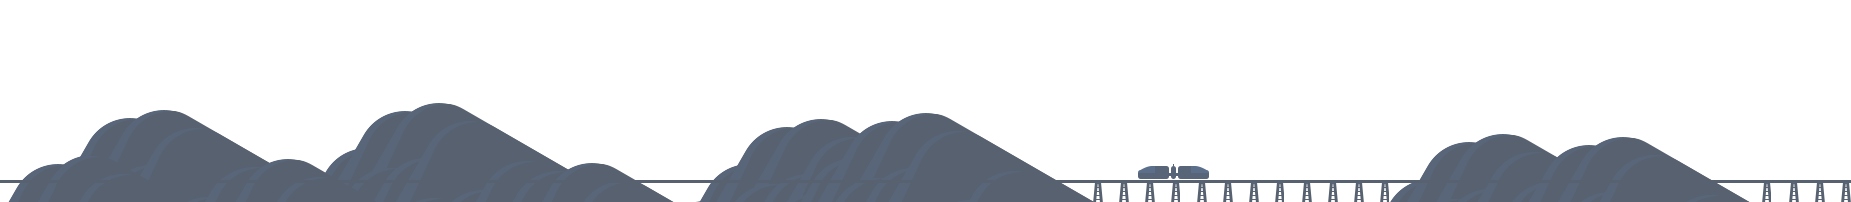
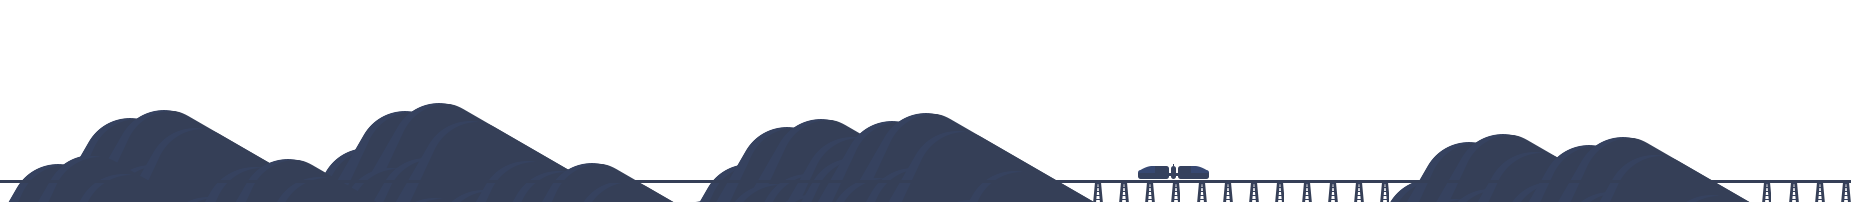
update background; fix game resizing; ARIA

Changed region(s): [[0.0, 0.505, 1.0, 1.0]]

diff --git a/js/global.js b/js/global.js
@@ -158,6 +158,7 @@ window.onload = (w) => {
     // Animate
     let animationID = 0;
     let lastTime = 0;
+
     function animateScene(timeStamp) {
         const deltaTime = timeStamp - lastTime;
         lastTime = timeStamp;
@@ -180,11 +181,15 @@ window.onload = (w) => {
     }
 
     function toggleAnimation(force) {
-        if (!isAnimating) {
-            isAnimating = true;
-            animateScene();
-        } else {
+        if (force === 'pause') {
             isAnimating = false;
+        } else {
+            if (!isAnimating) {
+                isAnimating = true;
+                animateScene();
+            } else {
+                isAnimating = false;
+            }
         }
     }
 
@@ -209,19 +214,21 @@ window.onload = (w) => {
         // isAnimating = 'stopped';
         canvas.width = canvasParent.offsetWidth;
         canvas.height = canvasParent.offsetHeight - groundHt;
+        // console.log(canvas.height);
         cancelAnimationFrame(animationID);
         platformAry = getPlatforms();
         ctx = canvas.getContext('2d');
+        marty.resetBounds(canvas.width, canvas.height);
 
             // redraw
-        // animateScene();
+        animateScene(0);
     }
     window.addEventListener("resize", resizeCanvas);
     
 
 }
 
-// "blocl" interactions
+// "block" interactions
 const maxHits = 6; // for "special" blocks
 function hitBlock(b) {
     // get num of hits on block
@@ -269,6 +276,10 @@ function ee() {
 }
 
 
+
+
+
+// Contact Form
 async function postData(form) {
     let emailContents = new FormData();
     form.querySelectorAll('input, textarea').forEach((i) => {
@@ -294,11 +305,7 @@ async function postData(form) {
 
 }
 
-// window.addEventListener('keydown', e => {
-//     console.log(e.key);
-// });
-  
-let aboutHt = document.getElementById("intro").offsetHeight;
+// let aboutHt = document.getElementById("intro").offsetHeight;
 function checkScroll() {
     let toTop = document.body.scrollTop || document.documentElement.scrollTop;
     if (toTop > 50) {

diff --git a/js/modules/game.js b/js/modules/game.js
@@ -246,6 +246,25 @@ class Player {
     onPlatform() {
         // if (this._y)
     }
+    resetBounds(width, height) {
+        // reset scene parameters
+        this._sceneWidth = width;
+        this._sceneHeight = height;
+
+        // prevent player from moving offscreen horizontally
+        if (this._x > this._sceneWidth - this._width) this._x = width - this._width;
+        if (this._x < 0) this._x = 0;
+
+        // prevent player from falling below ground
+        if (this._y + this._height > this._sceneHeight) {
+            this._y = this._sceneHeight - this._height;
+        }
+        // reset ground
+        this._groundLevel = this._sceneHeight - this._height;
+        this._lowerBound = this._groundLevel;
+
+        
+    }
 }
 
 class Environment {

diff --git a/index.php b/index.php
@@ -29,7 +29,7 @@
 </div>
 <header>
     <nav>
-        <ul>
+        <ul role="presentation">
             <li><a href="#about">About</a></li>
             <li><a href="#work">Work</a></li>
             <li><a href="#contact">Contact</a></li>
@@ -70,13 +70,13 @@
         <p>Full-Stack Developer</p>
     </section>
     <section id="about" data-current-scene="1">
-        <div class="contain">
+        <div class="contain" role="presentation">
             <h2>
-                <span class="brick">A</span>
-                <span class="brick">B</span>
-                <span class="brick special">O</span>
-                <span class="brick">U</span>
-                <span class="brick">T</span>
+                <span class="brick" role="presentation">A</span>
+                <span class="brick" role="presentation">B</span>
+                <span class="brick special" role="presentation">O</span>
+                <span class="brick" role="presentation">U</span>
+                <span class="brick" role="presentation">T</span>
             </h2>
             <?php
             #    $md = file_get_contents('data/about.md');
@@ -86,20 +86,20 @@
             <p class="platform" data-scene="1">When I am not working or watching my kids at their school sport events, I enjoy gaming on my custom-built PC, buidling and designing with LEGO, and practicing real-life and in-game photography. I have been interested in programming since I was a kid, learning other programming languages that appealed to my problem-solving nature while looking for fun and creative ways to put the code the use.</p>
             <p class="platform eegg" data-scene="2">I also enjoy including Easter Eggs in fun projects, but who doesn't?</p>
         </div>
-        <div class="monitor">
+        <div class="monitor" role="presentation">
             <img class="asset" id="cloud" data-type="sprite" src="images/about/cloud_sprite.png" alt="">
             <img class="asset" id="playerSprite" data-type="sprite" src="images/about/LEGO-sprite.png" alt="">
-            <div class="shrub"></div>
-            <div class="shrub"></div>
-            <div class="tile curtain left"></div>
-            <div class="tile curtain right"></div>
-            <div class="tile ground"></div>
+            <div class="shrub" role="presentation"></div>
+            <div class="shrub" role="presentation"></div>
+            <div class="tile curtain left" role="presentation"></div>
+            <div class="tile curtain right" role="presentation"></div>
+            <div class="tile ground" role="presentation"></div>
         </div>
     </section>
     <section id="work" class="alt">
-        <div class="contain">
+        <div class="contain" role="presentation">
             <h2>Work</h2>
-            <div class="projects">
+            <div class="projects" role="presentation">
 
             <?php
                 $proj_data = json_decode(file_get_contents('data/projects.json'));
@@ -111,9 +111,9 @@
                         $projNum = ($count < 10) ? sprintf("%'.02d",$count): $count;
                         $checked = ($count===1) ? " checked": "";
             ?>
-                <div class="project">
+                <div class="project" role="presentation">
                     <input type="radio" id="<?php echo $project->id ?>" name="project"<?php echo $checked ?>><label for="<?php echo $project->id ?>"><h3><span class="proj-num"><?php echo $projNum ?></span><span class="proj-ttl"><span class="dots">::</span><span class="ttl"><?php echo $project->title ?></span></span></a></h3></label>
-                    <div class="project-nfo">
+                    <div class="project-nfo" role="presentation">
 
 
                         <?php
@@ -129,7 +129,7 @@
                             endif;
                         ?>
                         <?php if (isset($project->description)): ?>
-                        <div class="project-dsc"><p><?php echo $project->description ?></p></div>
+                        <div class="project-dsc" aria-label="Project Description"><p><?php echo $project->description ?></p></div>
                         <?php endif; ?>
 
                                 
@@ -143,12 +143,12 @@
         </div>
     </section>
     <section id="contact">
-        <div class="contain">
+        <div class="contain" role="presentation">
             <h2>Want to get in touch?</h2>
             <p>Fill out the form below, and I'll get back to you as soon as I can.</p>
             <form id="contact-form" method="post" action="">
                 <div class="input-wrap">
-                    <label for="fname">Name</label>
+                    <label for="name">Name</label>
                     <input type="text" id="name" name="name" required>
                 </div>
                 <div class="input-wrap">

diff --git a/templates/media.php b/templates/media.php
@@ -1,10 +1,10 @@
 <?php $num_media = count($project->media); ?>
 
-<div class="media carousel" data-slides="<?php echo $num_media ?>"><div class="film">
+<div class="media carousel" data-slides="<?php echo $num_media ?>" role="presentation"><div class="film" role="presentation">
 <?php
     foreach($project->media as $media):
 ?>
-    <div class="frame <?php echo $media->type ?>">
+    <div class="frame <?php echo $media->type ?>" role="presentation">
 
 
 
@@ -19,7 +19,7 @@
             $video_opt = $loop . $controls . $autoplay;
             $frame = isset($media->frame) ? $media->frame : "default";
         ?>        
-        <div class="<?php echo $frame ?>">
+        <div class="<?php echo $frame ?>" role="presentation">
             <video width="<?php echo $vid_wd ?>" height="<?php echo $vid_ht ?>"<?php echo $video_opt ?>><source src="projects/<?php echo $project->dir ?>/<?php echo $media->file ?>"></video>
         </div>
 
@@ -45,7 +45,7 @@
 
             $shadow = (isset($media->shadow) && $media->shadow === false) ? " class=\"no-shadow\"": "";
         ?>
-        <div style="padding:<?php echo $vimeo_ratio ?>% 0 0 0;position:relative;"><iframe<?php echo $shadow ?> src="https://player.vimeo.com/video/<?php echo $vimeo_url ?>&amp;badge=0&amp;autopause=0&amp;player_id=0&amp;app_id=58479&amp;dnt=1" frameborder="0" allow="autoplay; fullscreen; picture-in-picture; clipboard-write; encrypted-media" style="position:absolute;top:0;left:0;width:100%;height:100%;" title="<?php echo $media->alt ?>"></iframe></div><script src="https://player.vimeo.com/api/player.js"></script>
+        <div style="padding:<?php echo $vimeo_ratio ?>% 0 0 0;position:relative;" role="presentation"><iframe<?php echo $shadow ?> src="https://player.vimeo.com/video/<?php echo $vimeo_url ?>&amp;badge=0&amp;autopause=0&amp;player_id=0&amp;app_id=58479&amp;dnt=1" frameborder="0" allow="autoplay; fullscreen; picture-in-picture; clipboard-write; encrypted-media" style="position:absolute;top:0;left:0;width:100%;height:100%;" title="<?php echo $media->alt ?>"></iframe></div><script src="https://player.vimeo.com/api/player.js"></script>
 
 
 
@@ -58,17 +58,17 @@
 
 
     <?php elseif ($media->type == 'compare'): ?>
-        <div class="onion">
-            <button class="grip"></button>
+        <div class="onion" role="presentation">
+            <button class="grip" role="presentation"></button>
         <?php 
             $num_imgs = count($media->files);
             for($i = 0; $i < $num_imgs; $i++):
         ?>
         <?php if ($i === $num_imgs - 1): ?>
-            <img class="after no-shadow" src="projects/<?php echo $project->dir ?>/<?php echo $media->files[$i]->src ?>" alt="<?php echo $media->files[$i]->alt ?>">
+            <img class="after no-shadow" src="projects/<?php echo $project->dir ?>/<?php echo $media->files[$i]->src ?>" alt="<?php echo $media->files[$i]->alt ?>" aria-label="After Image">
             <?php else: ?>
             <div class="before">
-                <img class="no-shadow" src="projects/<?php echo $project->dir ?>/<?php echo $media->files[$i]->src ?>" alt="<?php echo $media->files[$i]->alt ?>">
+                <img class="no-shadow" src="projects/<?php echo $project->dir ?>/<?php echo $media->files[$i]->src ?>" alt="<?php echo $media->files[$i]->alt ?>" aria-label="Before Image">
             </div>
             <?php endif; ?>
         

diff --git a/templates/tags.php b/templates/tags.php
@@ -1,4 +1,4 @@
-<ul class="tags">
+<ul class="tags" role="presentation" aria-label="Tags">
     <?php
         # basic tags
         if (isset($project->tags) && count($project->tags) > 0):
@@ -13,7 +13,7 @@
         if (isset($project->awards) && count($project->awards) > 0):
             foreach ($project->awards as $award):
     ?>
-    <li class="award"><?php echo $award ?></li>
+    <li class="award" role="presentation" aira-label="Awards"><?php echo $award ?></li>
     <?php
             endforeach;
         endif;
